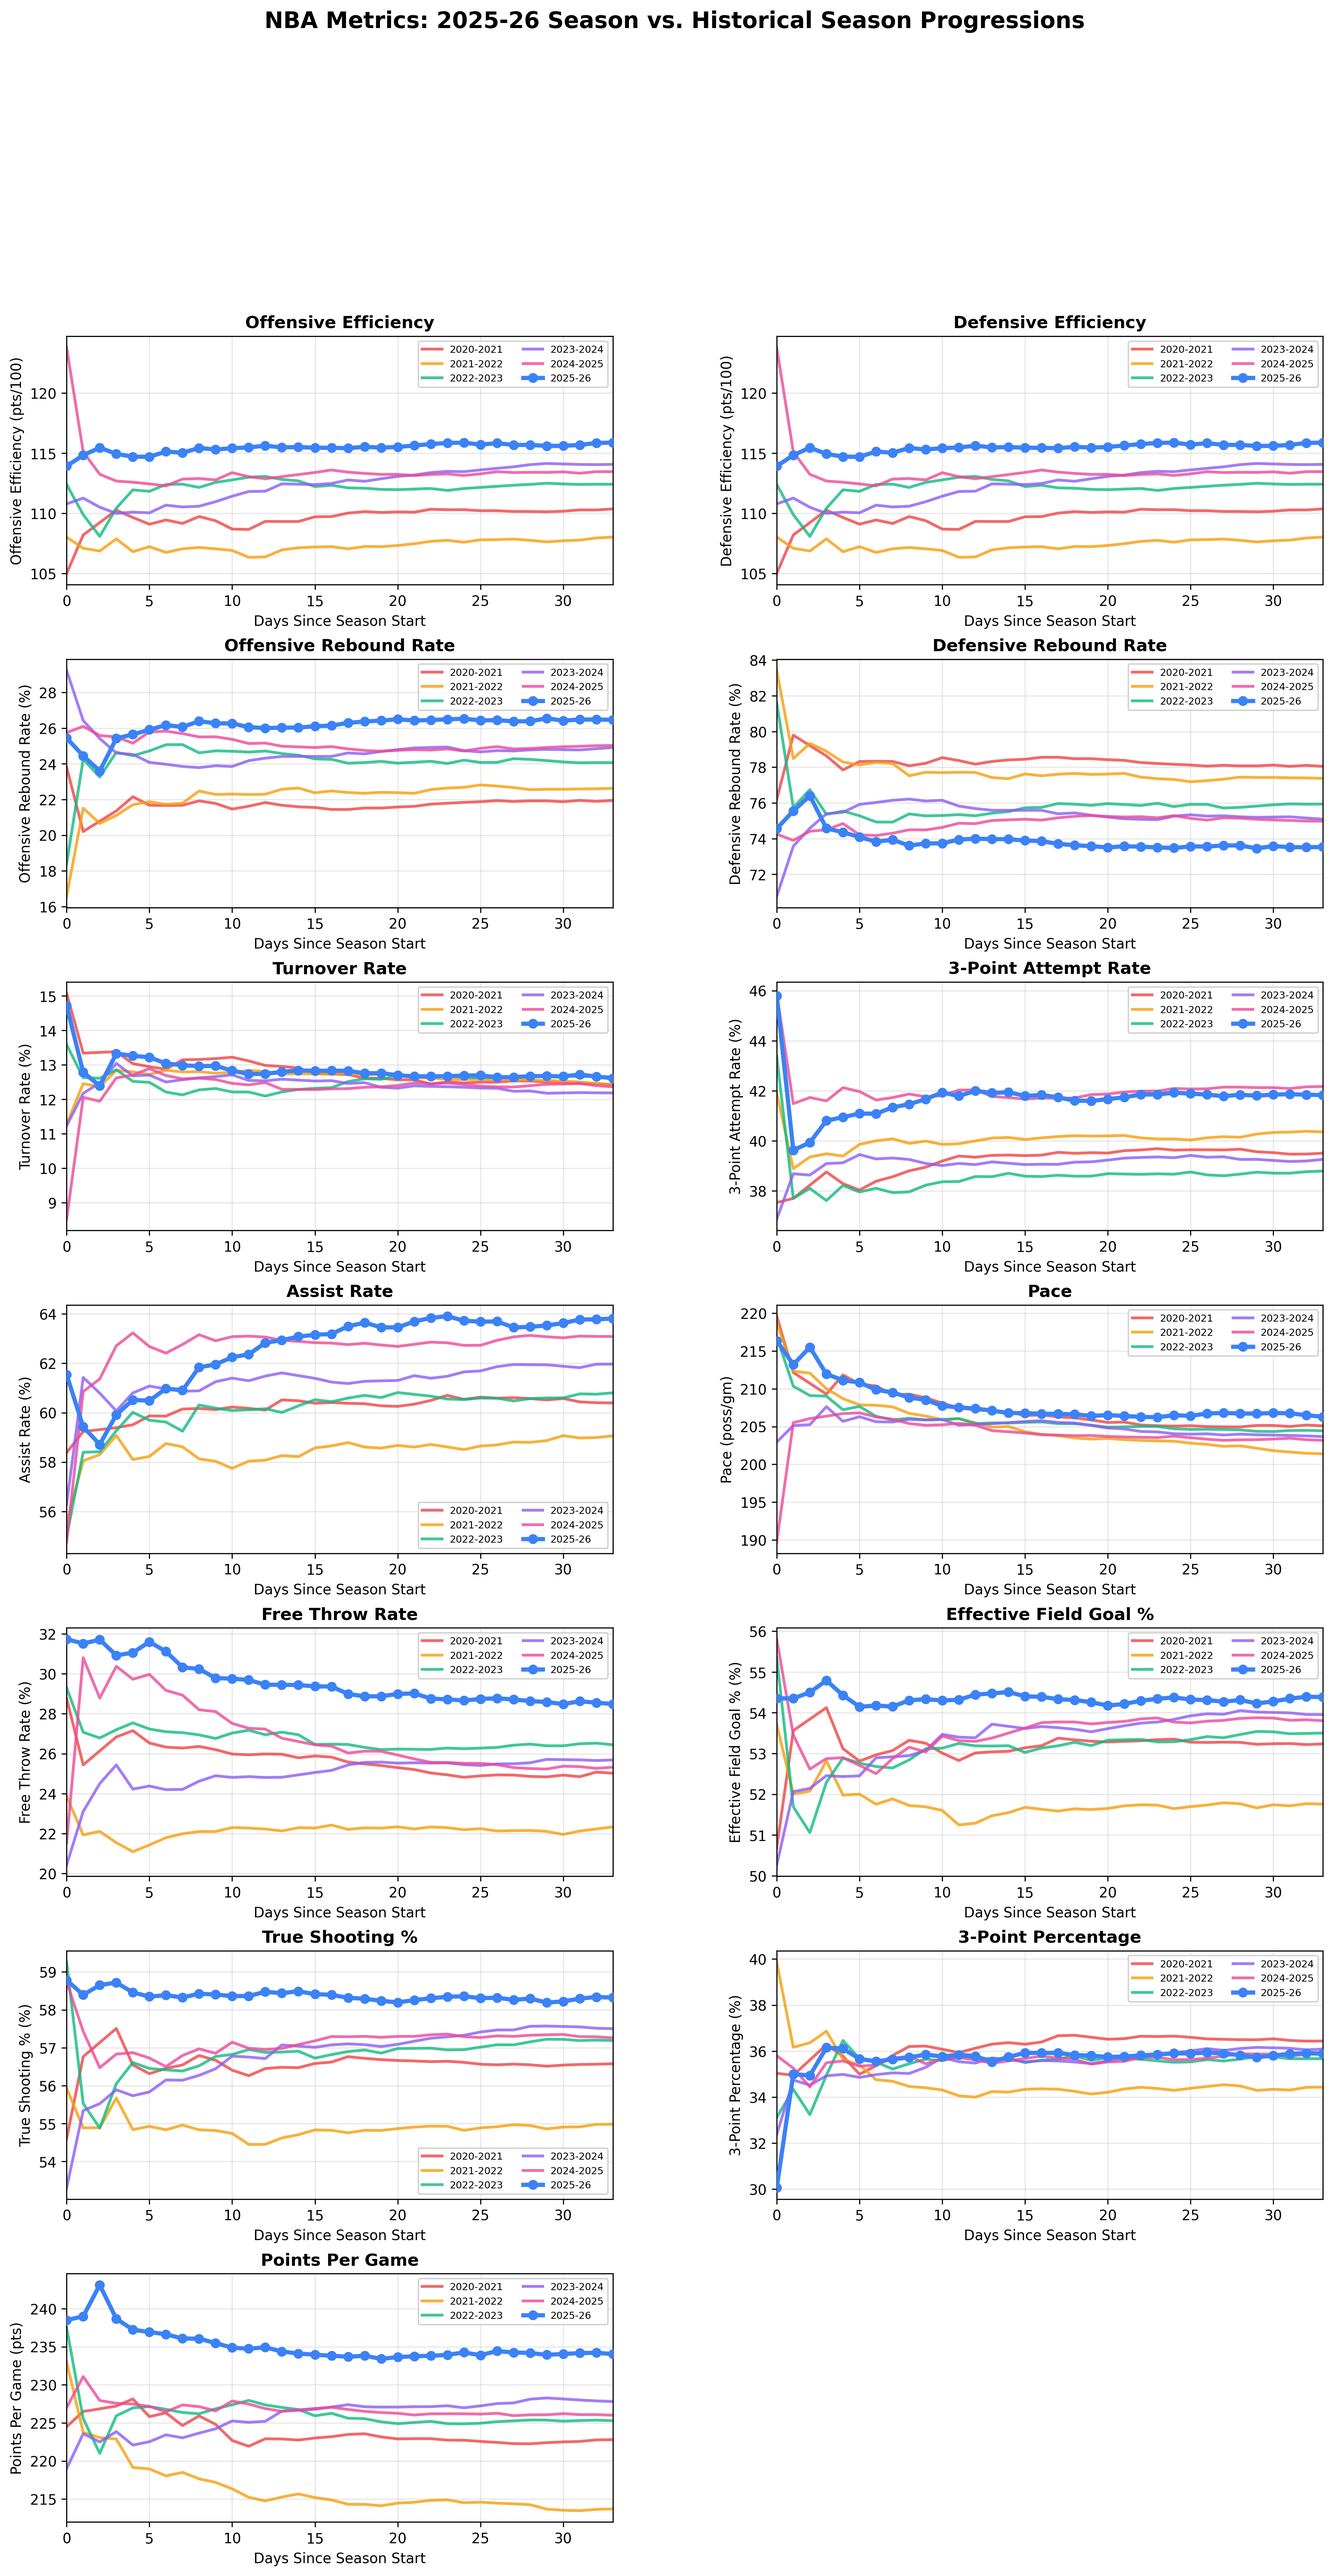
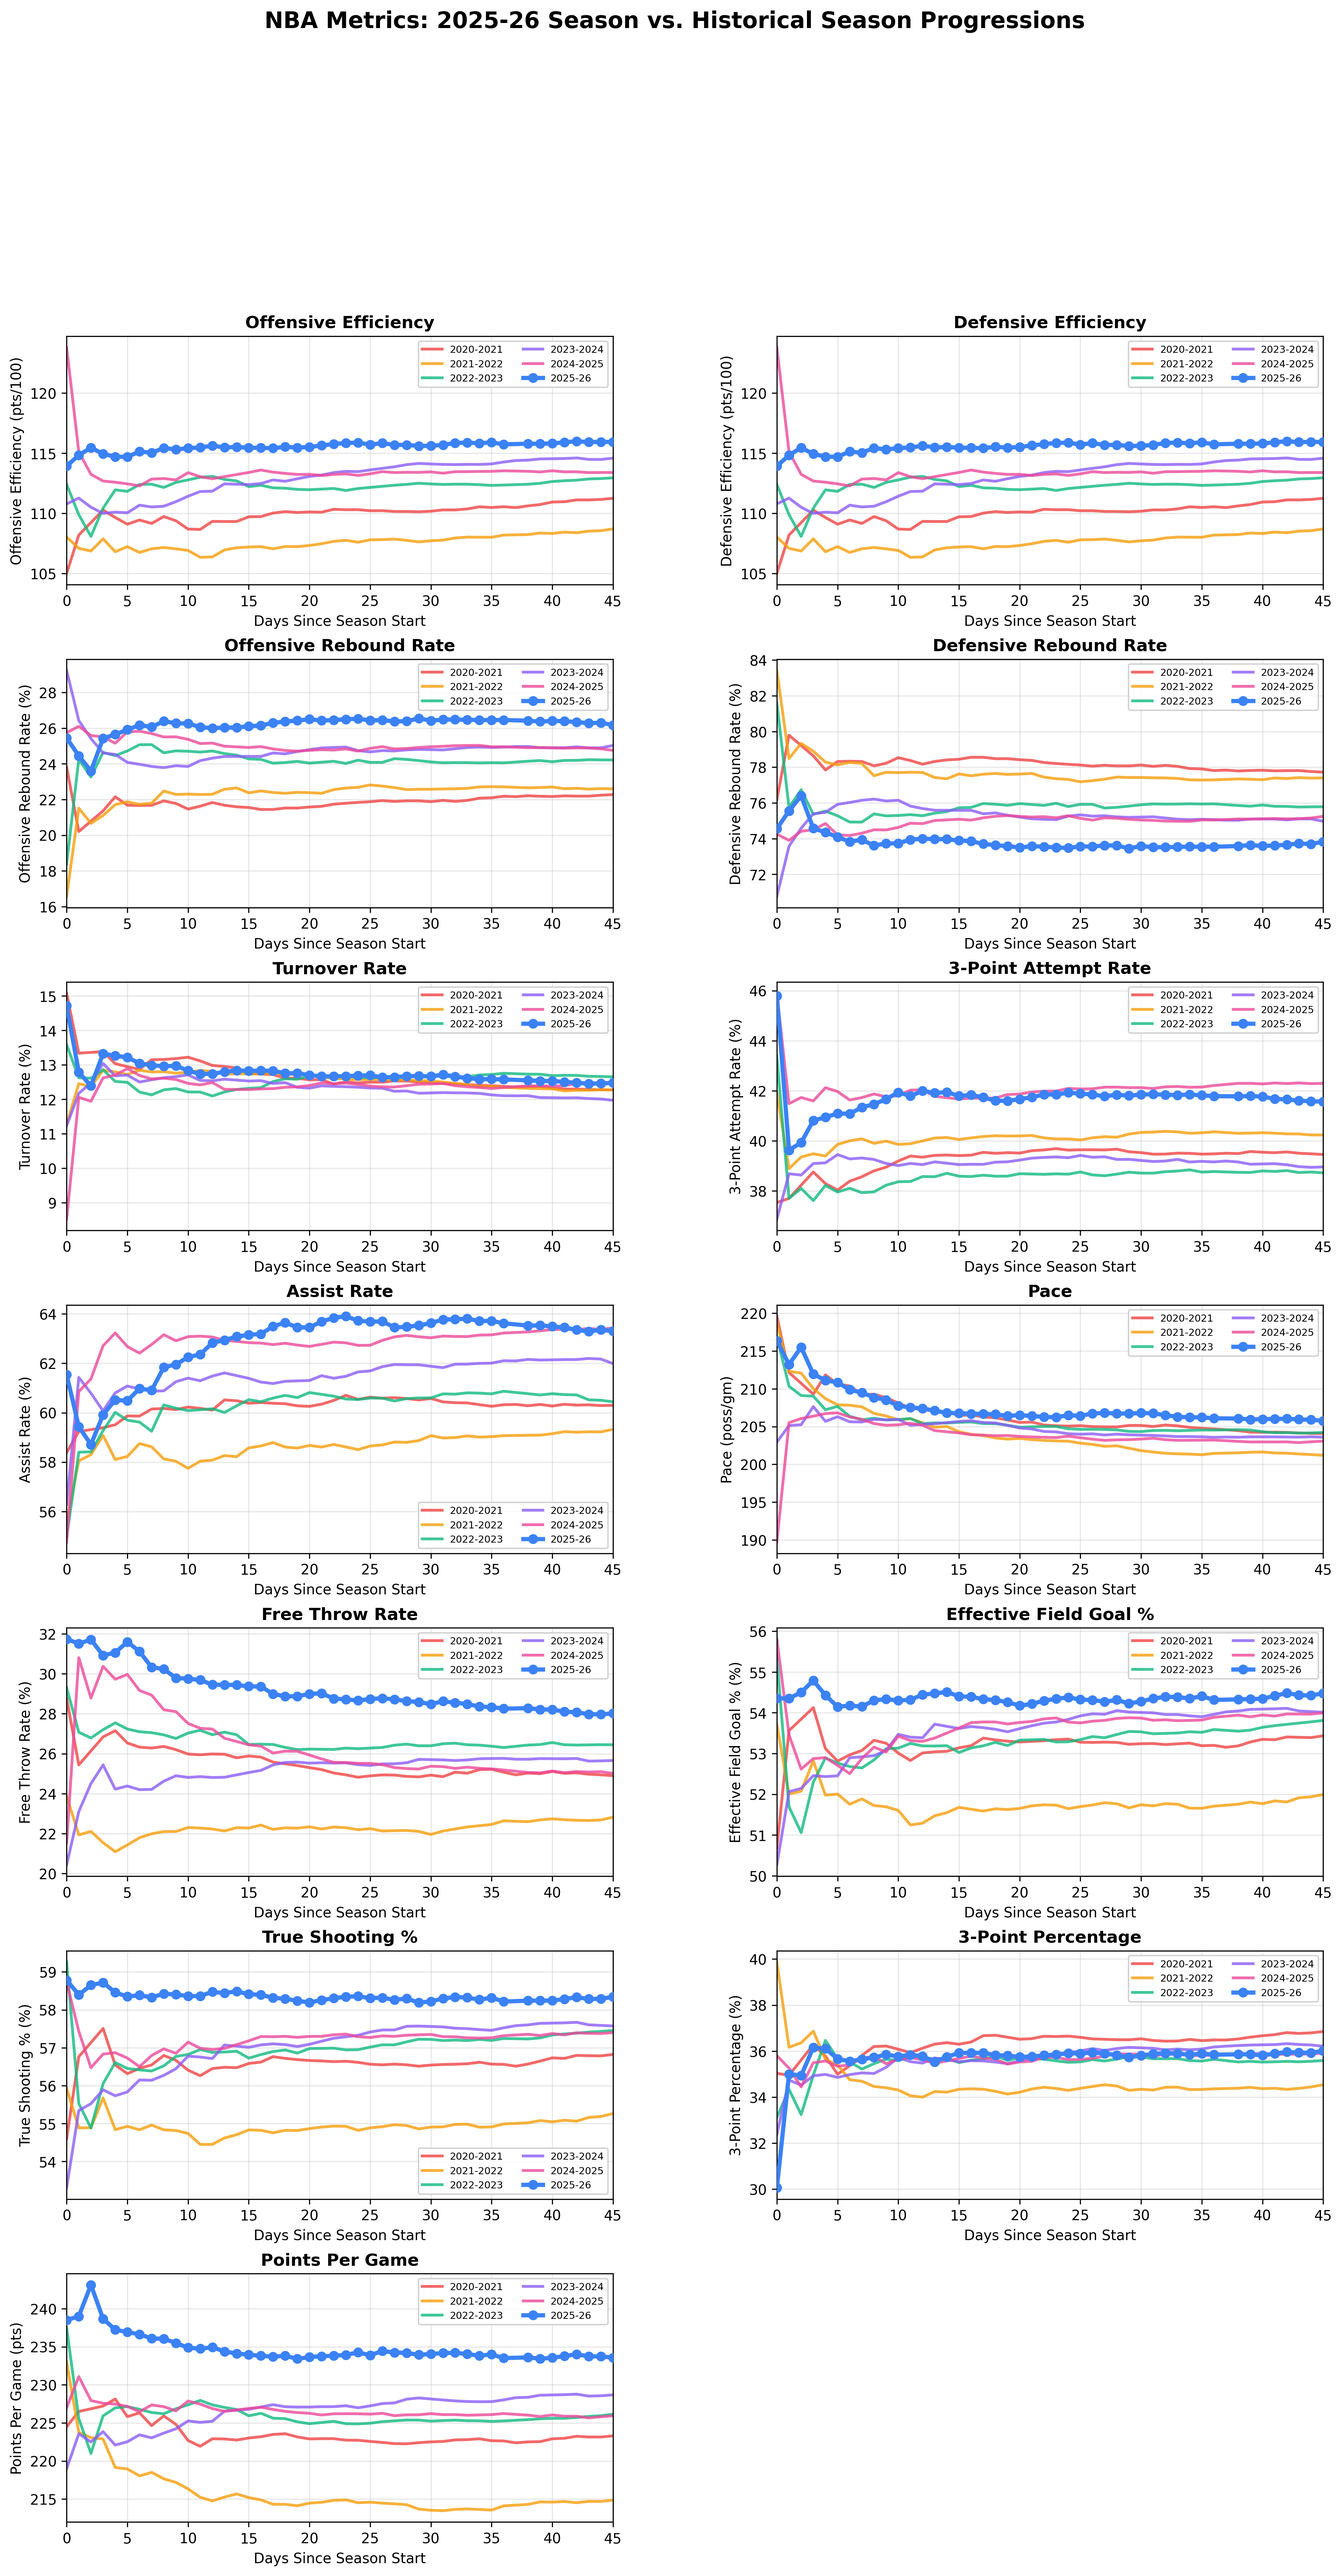
Refine confidence level logic in betting recommendations
- Updated the confidence level determination for away underdogs, changing the criteria for 'high' confidence levels based on spread thresholds.
- Commented out outdated conditions for home favorites and home underdogs to improve code clarity and maintainability.
- Added new entries to `regime_history.json` and updated `regime_state.json` to reflect the latest analysis metrics, ensuring accurate tracking of regime changes.

These changes enhance the accuracy of betting predictions and improve the overall maintainability of the code.

diff --git a/daily_betting_recommendations_hybrid.py b/daily_betting_recommendations_hybrid.py
@@ -405,17 +405,20 @@ def get_confidence_level_context(rec: Dict) -> str:
     is_away_favorite = is_away and spread > 0  # Away team is favorite when spread > 0
 
     # Home dogs: 2.5 to 4 (inclusive) -> medium
-    if is_home_underdog and 2.5 <= spread <= 4:
-        return 'medium'
+    # if is_home_underdog and 2.5 <= spread <= 3.5:
+    #     return 'medium'
     
     # Home favorites: < -12 -> medium
-    if is_home_favorite and spread < -12:
-        return 'medium'
+    # if is_home_favorite and spread < -12:
+    #     return 'medium'
     
     # Road dogs: -5 to -9 (inclusive) -> medium
     # When picking away team and spread is negative (home favored), away is underdog
-    if is_away_underdog and -9 <= spread <= -5:
-        return 'medium'
+    if is_away_underdog and (spread > -8):
+        return 'high'
+
+    # if is_away_favorite and 3 <= spread <= 4.5:
+    #     return 'medium'
     
     # Road favorites: none are medium
     # Everything else is low
